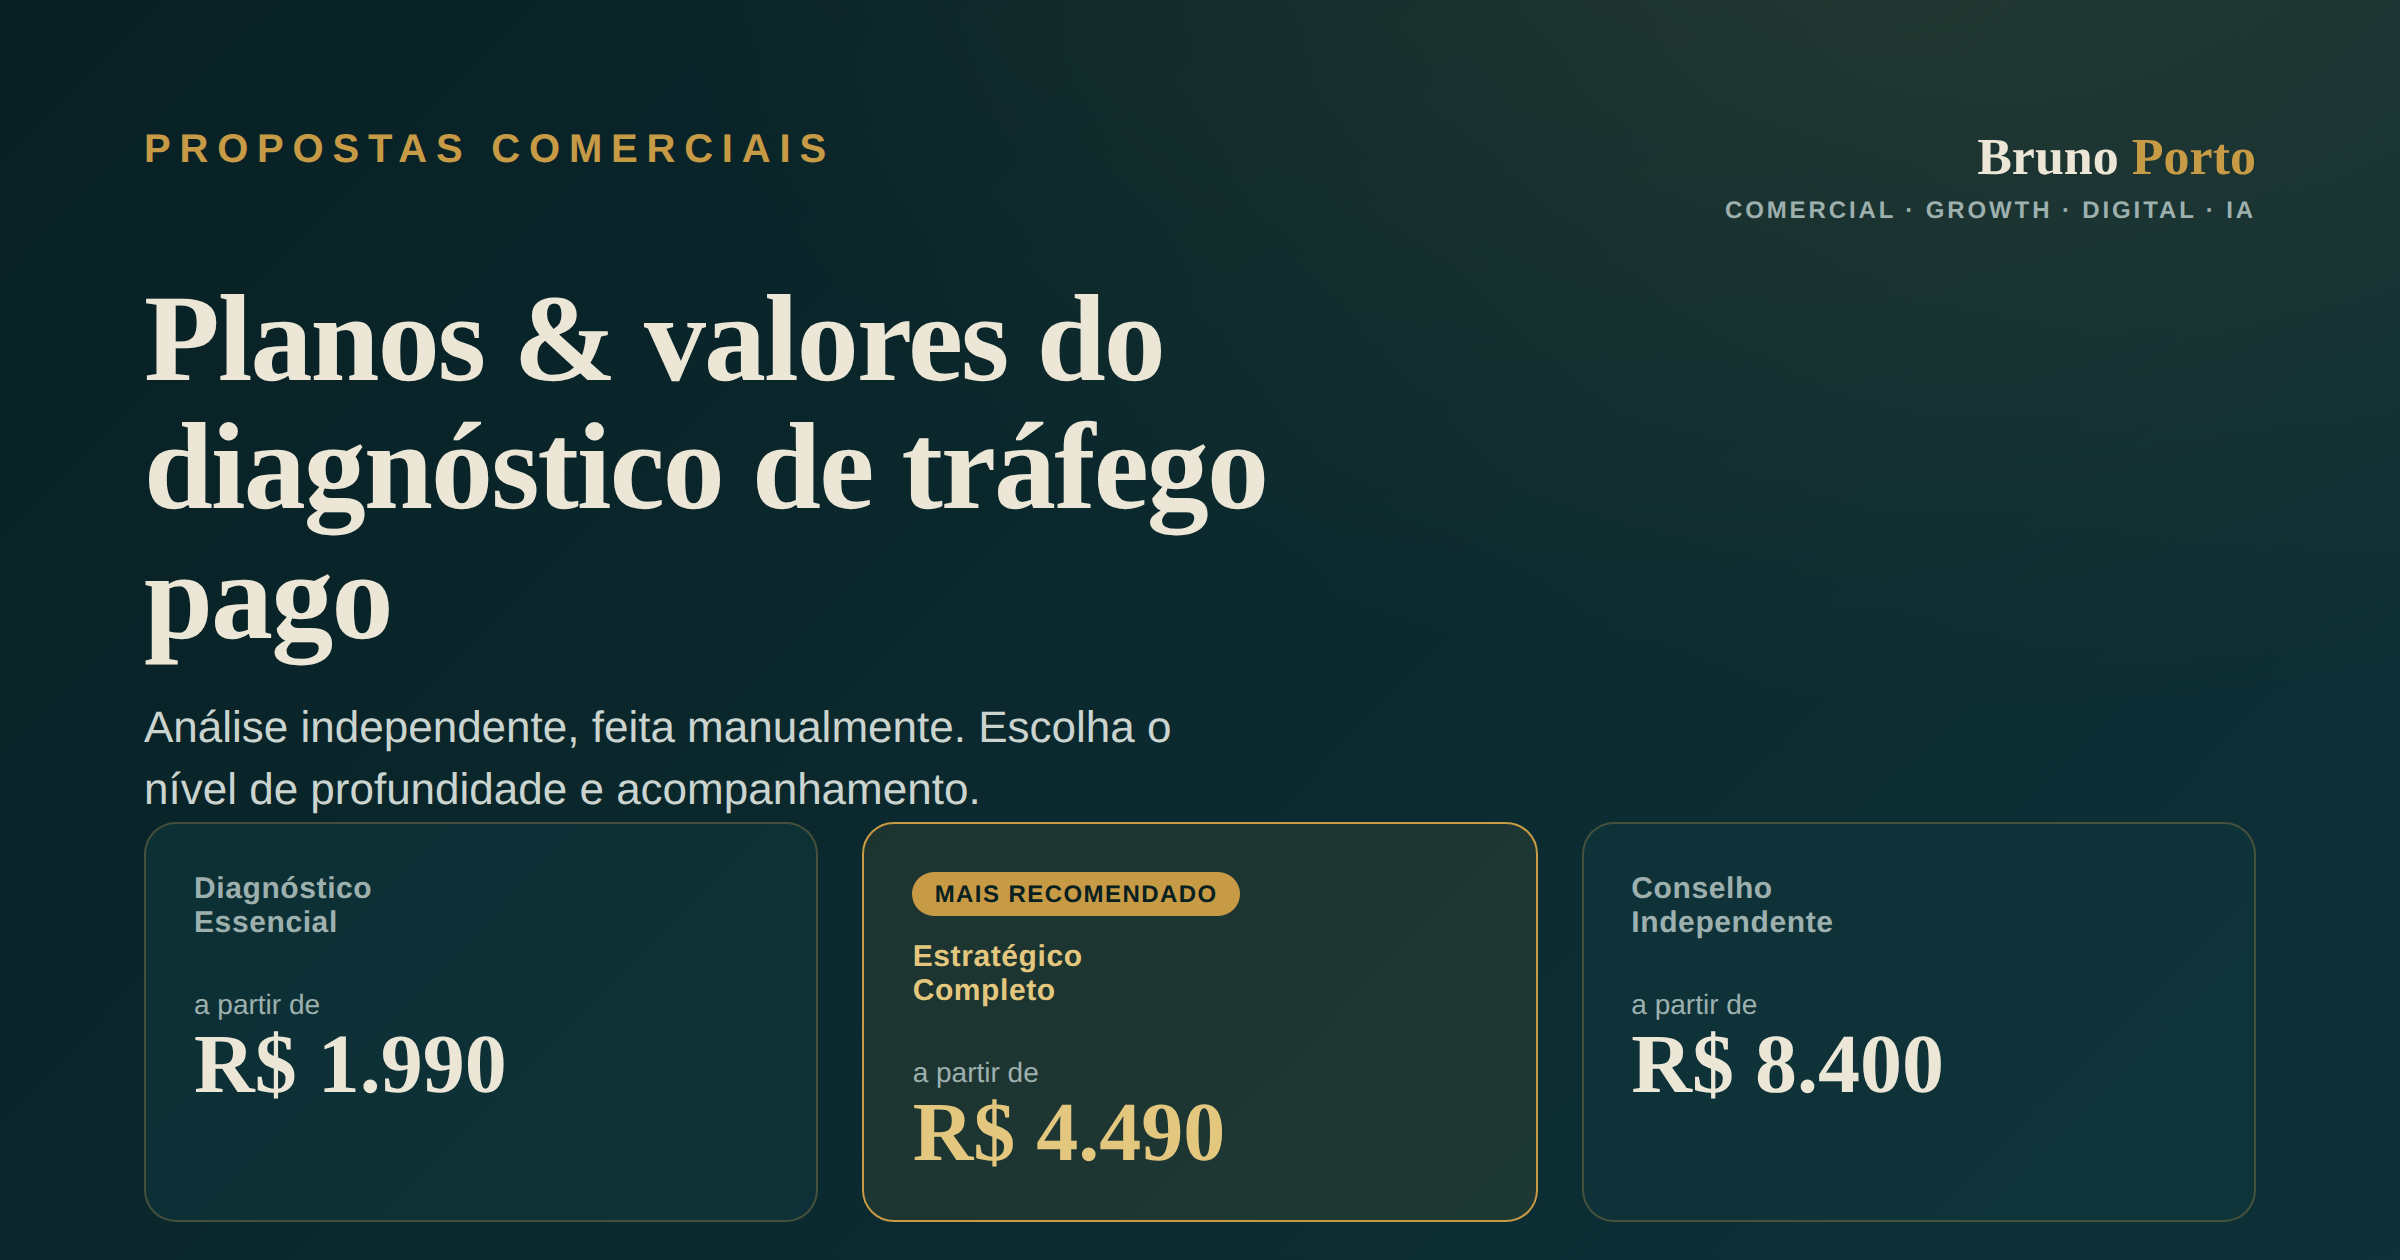
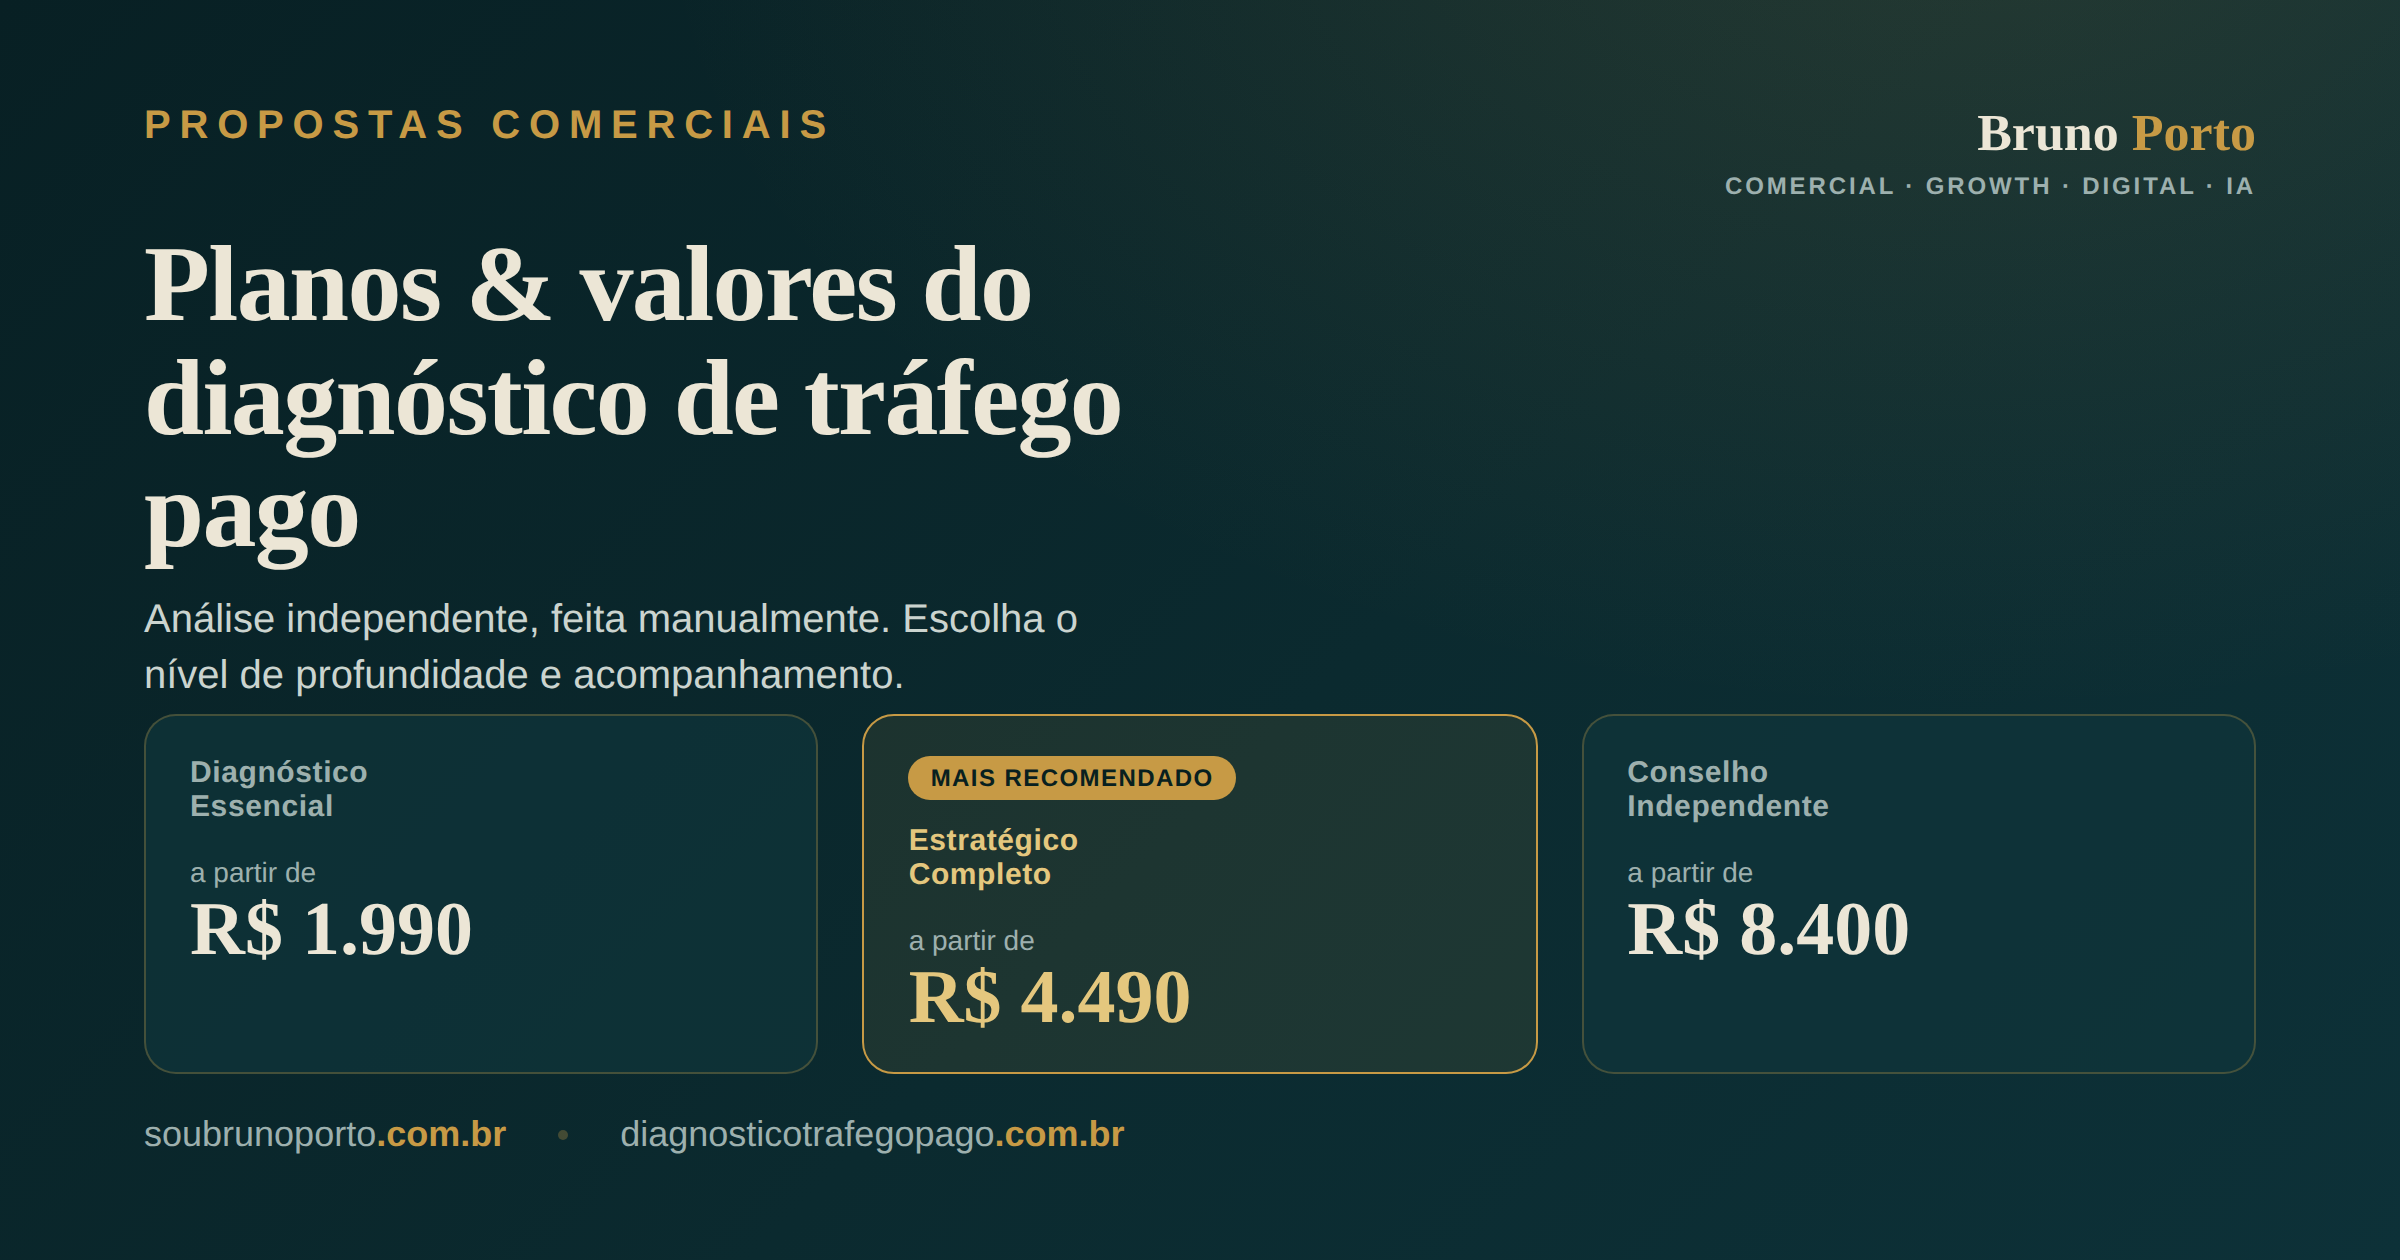
Links dos dois sites em /metodologia e no card social (#216)
* Adiciona links dos dois sites em /metodologia e no card social de /planos

Claude-Session: https://claude.ai/code/session_01PdQeGWBPAWPZ13zgNb2nZd

* Atualiza periodos de analise: Essencial 90d, Completo 365d, Conselho indeterminado

Claude-Session: https://claude.ai/code/session_01PdQeGWBPAWPZ13zgNb2nZd

---------

diff --git a/bruno-porto/planos/index.html b/bruno-porto/planos/index.html
@@ -135,7 +135,7 @@
         <span class="now">R$ 1.990</span>
       </div>
       <ul class="summary">
-        <li><svg viewBox="0 0 24 24" fill="none" stroke-width="2.4" stroke-linecap="round" stroke-linejoin="round"><path d="M20 6 9 17l-5-5"/></svg> Até 3 canais e até 60 dias</li>
+        <li><svg viewBox="0 0 24 24" fill="none" stroke-width="2.4" stroke-linecap="round" stroke-linejoin="round"><path d="M20 6 9 17l-5-5"/></svg> Até 3 canais e até 90 dias</li>
         <li><svg viewBox="0 0 24 24" fill="none" stroke-width="2.4" stroke-linecap="round" stroke-linejoin="round"><path d="M20 6 9 17l-5-5"/></svg> Análise gerencial dos indicadores</li>
         <li><svg viewBox="0 0 24 24" fill="none" stroke-width="2.4" stroke-linecap="round" stroke-linejoin="round"><path d="M20 6 9 17l-5-5"/></svg> Cinco gargalos prioritários</li>
         <li><svg viewBox="0 0 24 24" fill="none" stroke-width="2.4" stroke-linecap="round" stroke-linejoin="round"><path d="M20 6 9 17l-5-5"/></svg> Relatório executivo</li>
@@ -156,7 +156,7 @@
         <span class="now">R$ 4.490</span>
       </div>
       <ul class="summary">
-        <li><svg viewBox="0 0 24 24" fill="none" stroke-width="2.4" stroke-linecap="round" stroke-linejoin="round"><path d="M20 6 9 17l-5-5"/></svg> Todos os canais e 90 dias</li>
+        <li><svg viewBox="0 0 24 24" fill="none" stroke-width="2.4" stroke-linecap="round" stroke-linejoin="round"><path d="M20 6 9 17l-5-5"/></svg> Todos os canais e 365 dias</li>
         <li><svg viewBox="0 0 24 24" fill="none" stroke-width="2.4" stroke-linecap="round" stroke-linejoin="round"><path d="M20 6 9 17l-5-5"/></svg> Revisão técnica das campanhas</li>
         <li><svg viewBox="0 0 24 24" fill="none" stroke-width="2.4" stroke-linecap="round" stroke-linejoin="round"><path d="M20 6 9 17l-5-5"/></svg> Rastreamento, oferta, leads e vendas</li>
         <li><svg viewBox="0 0 24 24" fill="none" stroke-width="2.4" stroke-linecap="round" stroke-linejoin="round"><path d="M20 6 9 17l-5-5"/></svg> Dossiê, painel e matriz de gargalos</li>
@@ -205,7 +205,7 @@
       <tbody>
         <tr><th scope="row">Reunião de entendimento</th><td>Sim</td><td class="feat-col">Sim</td><td>Sim</td></tr>
         <tr><th scope="row">Canais analisados</th><td>Até 3</td><td class="feat-col">Todos</td><td>Todos</td></tr>
-        <tr><th scope="row">Período analisado</th><td>Até 60 dias</td><td class="feat-col">Até 90 dias</td><td>Até 90 dias + acompanhamento</td></tr>
+        <tr><th scope="row">Período analisado</th><td>Até 90 dias</td><td class="feat-col">Até 365 dias</td><td>Indeterminado</td></tr>
         <tr><th scope="row">Análise dos indicadores</th><td>Gerencial</td><td class="feat-col">Aprofundada</td><td>Aprofundada</td></tr>
         <tr><th scope="row">Revisão técnica das campanhas</th><td>Não</td><td class="feat-col yes">Sim</td><td class="yes">Sim</td></tr>
         <tr><th scope="row">Verificação do rastreamento</th><td>Não</td><td class="feat-col yes">Sim</td><td class="yes">Sim</td></tr>

diff --git a/bruno-porto/metodologia/index.html b/bruno-porto/metodologia/index.html
@@ -55,7 +55,10 @@
   .mark{font-family:'Fraunces',serif;font-weight:600;font-size:18px}
   .mark b{color:var(--brass)}
   .mark .tag{font-family:'Public Sans',sans-serif;font-size:11px;font-weight:600;letter-spacing:0.08em;color:var(--muted);display:block;margin-top:2px}
-  footer .site{font-size:13px;color:var(--muted)}
+  footer .site{font-size:13px;color:var(--muted);display:flex;gap:18px;flex-wrap:wrap;align-items:center}
+  footer .site a{color:var(--muted);text-decoration:none;transition:color .15s}
+  footer .site a:hover{color:var(--brass-lt)}
+  footer .site a b{color:var(--brass);font-weight:600}
 
   @media (max-width:860px){
     body{padding:14px}
@@ -152,7 +155,10 @@
 
   <footer>
     <div class="mark">Bruno <b>Porto</b><span class="tag">Comercial · Growth · Digital · IA</span></div>
-    <div class="site">soubrunoporto.com.br</div>
+    <div class="site">
+      <a href="https://soubrunoporto.com.br" target="_blank" rel="noopener">soubrunoporto<b>.com.br</b></a>
+      <a href="https://diagnosticotrafegopago.com.br" target="_blank" rel="noopener">diagnosticotrafegopago<b>.com.br</b></a>
+    </div>
   </footer>
 
 </div>
